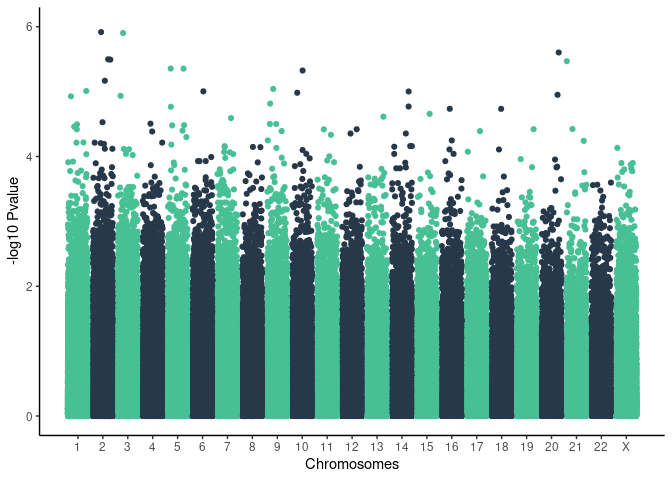
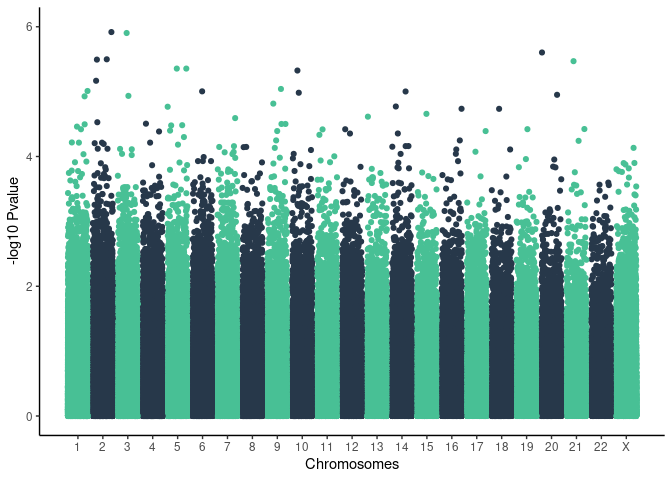
updated results

diff --git a/commonGWAS/common_gwas.md b/commonGWAS/common_gwas.md
@@ -8,7 +8,7 @@ Results on 1076 unrelated individuals
 
 ### Severe manhattan plot
 
-    ## Warning: Removed 28 rows containing missing values (geom_point).
+    ## Warning: Removed 33 rows containing missing values (geom_point).
 
 ![](common_gwas_files/figure-gfm/q_manhattan_plot-1.png)<!-- -->
 
@@ -32,6 +32,8 @@ Results on 1076 unrelated individuals
 | SELENOI    | MODIFIER | intron\_variant                                  | chr2\_26371642\_C\_T     | 1.86e-05 |  0.9881 |       1 |
 | AP002991.1 | MODIFIER | intron\_variant,non\_coding\_transcript\_variant | chr11\_115732655\_G\_A   | 1.86e-05 |  0.9881 |       1 |
 
-    ## Warning: Removed 18 rows containing missing values (geom_point).
+### Resistors manhattan
+
+    ## Warning: Removed 23 rows containing missing values (geom_point).
 
 ![](common_gwas_files/figure-gfm/manhattan_plot_resist-1.png)<!-- -->
